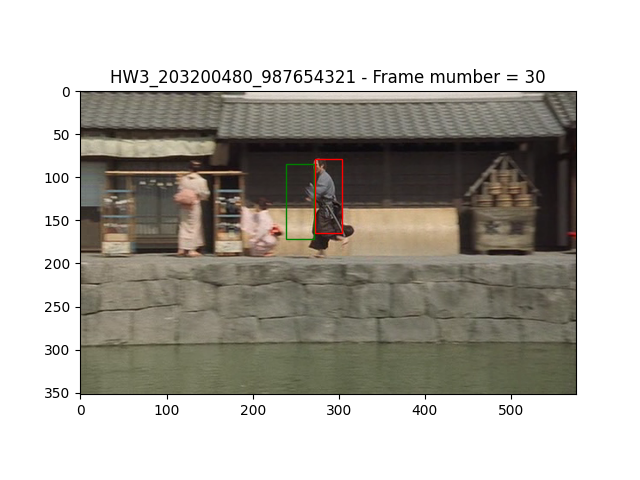
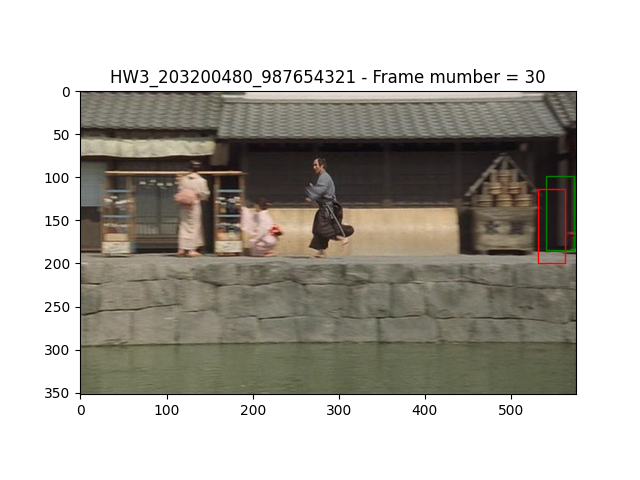
fixed small bugs

diff --git a/particle_filter.py b/particle_filter.py
@@ -29,10 +29,10 @@ s_initial = [297,    # x center
                0]    # velocity y
 
 
-sigma_x =2
-sigma_y =2
-sigma_vx =0.5
-sigma_vy =0.5
+sigma_x =2.5
+sigma_y =2.5
+sigma_vx =0.8
+sigma_vy =0.8
 
 def predict_particles(s_prior: np.ndarray) -> np.ndarray:
     """Progress the prior state with time and add noise.
@@ -78,7 +78,7 @@ def compute_normalized_histogram(image: np.ndarray, state: np.ndarray) -> np.nda
     max_higt,max_width,_ = image.shape
 
     x,y,hight,widthe =state[0],state[1],state[2],state[3]
-    croped_image = image[ max(y- hight,1):min( y + hight,max_higt-1), max(x- widthe,1): min(x + widthe, max_width-1 ), :]
+    croped_image = image[ max(y- hight,1):min( y + hight,max_higt-1), max(x- widthe,1): min(x + widthe, max_width-1 )]
     # Using cv2.split() to split channels of coloured image 
     b,g,r = cv2.split(croped_image)
     b = b//16
@@ -158,8 +158,8 @@ def show_particles(image: np.ndarray, state: np.ndarray, W: np.ndarray, frame_in
         INSERT YOUR CODE HERE."""
     (x_avg, y_avg, w_avg, h_avg) = (0, 0, state[2][0]*2, state[3][0]*2)
     for index,partical in enumerate(state.T):
-        x_avg = partical[0]* W[index]
-        y_avg = partical[1]* W[index]
+        x_avg += partical[0]* W[index]
+        y_avg += partical[1]* W[index]
     x_avg = x_avg - w_avg/2
     y_avg -= h_avg/2
     rect = patches.Rectangle((x_avg, y_avg), w_avg, h_avg, linewidth=1, edgecolor='g', facecolor='none')
@@ -200,11 +200,12 @@ def calculate_C (W):
     '''
     this function recives the whigthes and calculTE THE CDF
     ''' 
-    c = np.zeros(len(W))
+    #c = np.zeros(len(W))
+    c = [0 for i in range(len(W))]
     c[0]=W[0]
     for i in range(1,len(W)):
         c[i]+= W[i]+c[i-1]
-    return c
+    return np.array(c)
  
 
 def main():
